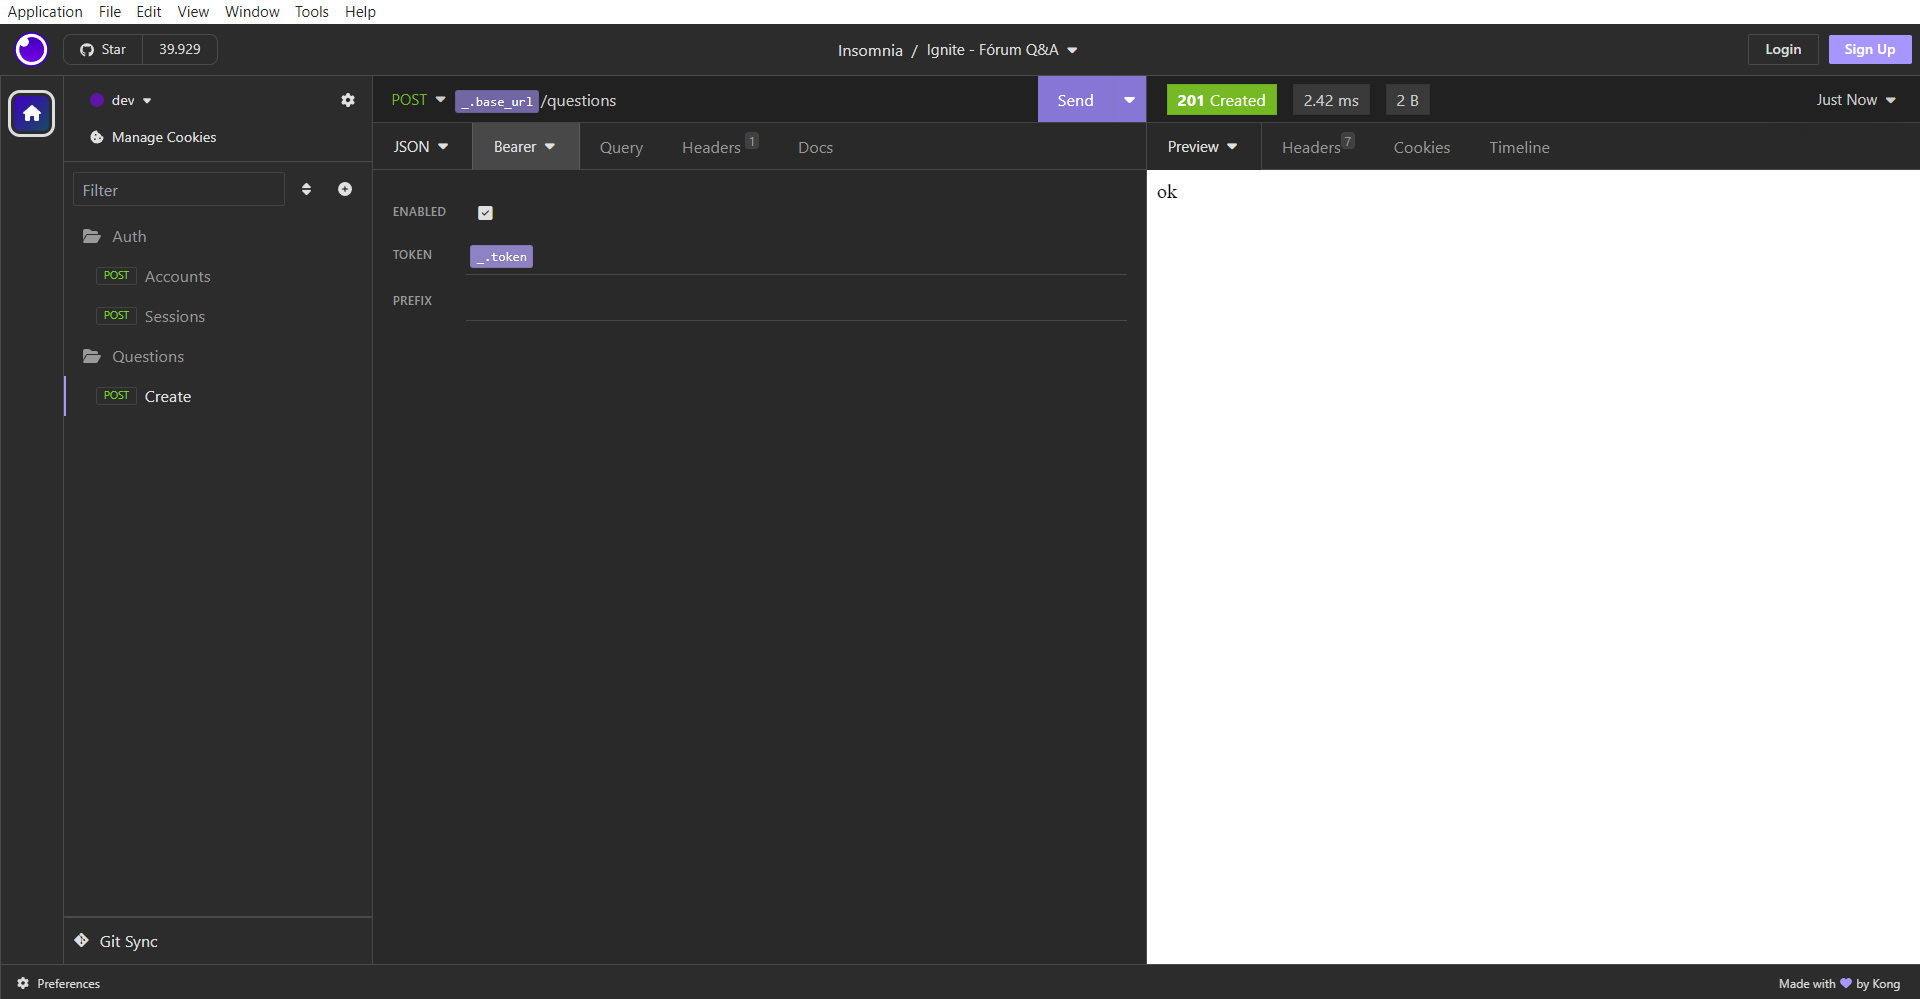
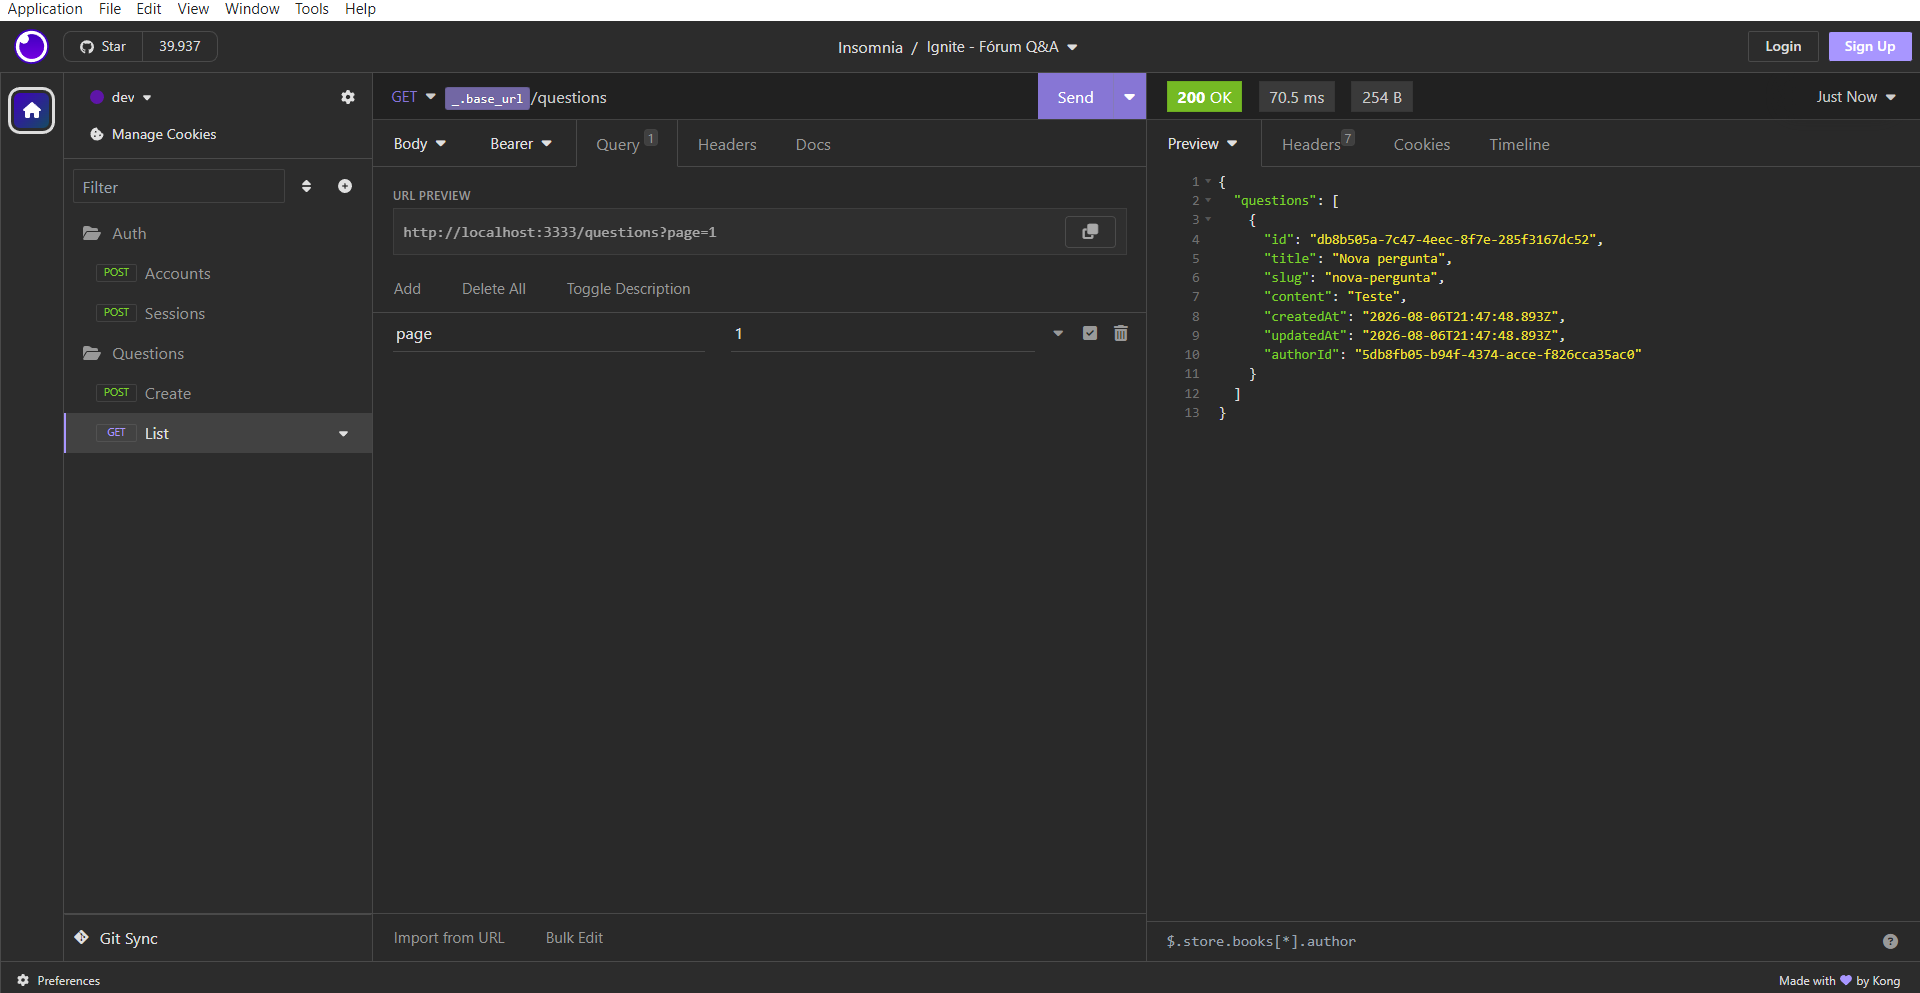
Controller de criação e listagem de perguntas

diff --git a/src/controllers/create-question.controller.ts b/src/controllers/create-question.controller.ts
@@ -1,13 +1,51 @@
-import { Controller, Post, UseGuards } from '@nestjs/common'
+import { Body, Controller, Post, UseGuards } from '@nestjs/common'
+import { CurrentUser } from 'src/auth/current-user-decorator'
 import { JwtAuthGuard } from 'src/auth/jwt-auth.guard'
+import type { UserPayload } from 'src/auth/jwt.strategy'
+import { ZodValidationPipe } from 'src/pipes/zod-validation-pipe'
+import { PrismaService } from 'src/prisma/prisma.service'
+import { z } from 'zod'
+
+const createQuestionBodySchema = z.object({
+  title: z.string(),
+  content: z.string(),
+})
+
+const bodyValidationPipe = new ZodValidationPipe(createQuestionBodySchema)
+
+type CreateQuestionBodySchema = z.infer<typeof createQuestionBodySchema>
 
 @Controller('/questions')
 @UseGuards(JwtAuthGuard)
 export class CreateQuestionController {
-  constructor() {}
+  constructor(private prisma: PrismaService) {}
 
   @Post()
-  async handle() {
-    return 'ok'
+  async handle(
+    @Body(bodyValidationPipe) body: CreateQuestionBodySchema,
+    @CurrentUser() user: UserPayload,
+  ) {
+    const { title, content } = body
+    const userId = user.sub
+
+    const slug = this.convertToSlug(title)
+
+    await this.prisma.question.create({
+      data: {
+        authorId: userId,
+        title,
+        content,
+        slug,
+      },
+    })
+  }
+
+  private convertToSlug(title: string): string {
+    return title
+      .toLowerCase()
+      .normalize('NFD')
+      .replace(/[\u0300-\u036f]/g, '')
+      .replace(/[^\w\s-]/g, '')
+      .replace(/\s+/g, '-')
   }
 }

diff --git a/src/controllers/fetch-recent-questions.controller.ts b/src/controllers/fetch-recent-questions.controller.ts
@@ -1,0 +1,37 @@
+import { Controller, Get, Query, UseGuards } from '@nestjs/common'
+import { JwtAuthGuard } from 'src/auth/jwt-auth.guard'
+import { ZodValidationPipe } from 'src/pipes/zod-validation-pipe'
+import { PrismaService } from 'src/prisma/prisma.service'
+import { z } from 'zod'
+
+const pageQueryParamSchema = z
+  .string()
+  .optional()
+  .default('1')
+  .transform(Number)
+  .pipe(z.number().min(1))
+
+const queryValidationPipe = new ZodValidationPipe(pageQueryParamSchema)
+
+type PageQueryParamSchema = z.infer<typeof pageQueryParamSchema>
+
+@Controller('/questions')
+@UseGuards(JwtAuthGuard)
+export class FetchRecentQuestionsController {
+  constructor(private prisma: PrismaService) {}
+
+  @Get()
+  async handle(@Query('page', queryValidationPipe) page: PageQueryParamSchema) {
+    const perPage = 5
+
+    const questions = await this.prisma.question.findMany({
+      take: perPage,
+      skip: (page - 1) * perPage,
+      orderBy: {
+        createdAt: 'desc',
+      },
+    })
+
+    return { questions }
+  }
+}

diff --git a/src/app.module.ts b/src/app.module.ts
@@ -5,6 +5,7 @@ import { AuthModule } from './auth/auth.module'
 import { CreateAccountController } from './controllers/create-account.controller'
 import { AuthenticateController } from './controllers/authenticate.controller'
 import { CreateQuestionController } from './controllers/create-question.controller'
+import { FetchRecentQuestionsController } from './controllers/fetch-recent-questions.controller'
 import { PrismaService } from './prisma/prisma.service'
 
 @Module({
@@ -15,7 +16,12 @@ import { PrismaService } from './prisma/prisma.service'
     }),
     AuthModule,
   ],
-  controllers: [CreateAccountController, AuthenticateController, CreateQuestionController],
+  controllers: [
+    CreateAccountController,
+    AuthenticateController,
+    CreateQuestionController,
+    FetchRecentQuestionsController
+  ],
   providers: [PrismaService],
 })
 export class AppModule {}

diff --git a/src/auth/jwt.strategy.ts b/src/auth/jwt.strategy.ts
@@ -5,11 +5,11 @@ import { ExtractJwt, Strategy } from 'passport-jwt'
 import { Env } from 'src/env'
 import { z } from 'zod'
 
-const tokenSchema = z.object({
+const tokenPayloadSchema = z.object({
   sub: z.uuid(),
 })
 
-export type TokenSchema = z.infer<typeof tokenSchema>
+export type UserPayload = z.infer<typeof tokenPayloadSchema>
 
 @Injectable()
 export class JwtStrategy extends PassportStrategy(Strategy) {
@@ -23,7 +23,7 @@ export class JwtStrategy extends PassportStrategy(Strategy) {
     })
   }
 
-  async validate(payload: TokenSchema) {
-    return tokenSchema.parse(payload)
+  async validate(payload: UserPayload) {
+    return tokenPayloadSchema .parse(payload)
   }
 }

diff --git a/src/pipes/zod-validation-pipe.ts b/src/pipes/zod-validation-pipe.ts
@@ -7,7 +7,7 @@ export class ZodValidationPipe implements PipeTransform {
 
   transform(value: unknown) {
     try {
-      this.schema.parse(value)
+      return this.schema.parse(value)
     } catch (error) {
       if (error instanceof ZodError) {
         throw new BadRequestException({
@@ -19,6 +19,5 @@ export class ZodValidationPipe implements PipeTransform {
 
       throw new BadRequestException('Validation failed')
     }
-    return value
   }
 }

diff --git a/src/auth/current-user-decorator.ts b/src/auth/current-user-decorator.ts
@@ -1,0 +1,10 @@
+import { ExecutionContext, createParamDecorator } from '@nestjs/common'
+import { UserPayload } from './jwt.strategy'
+
+export const CurrentUser = createParamDecorator(
+  (_: never, context: ExecutionContext) => {
+    const request = context.switchToHttp().getRequest()
+
+    return request.user as UserPayload
+  },
+)
